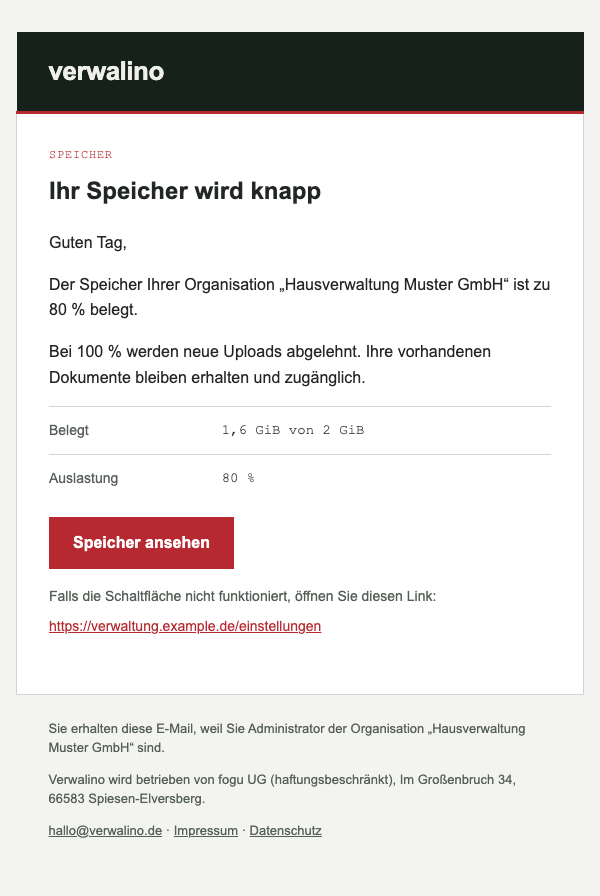
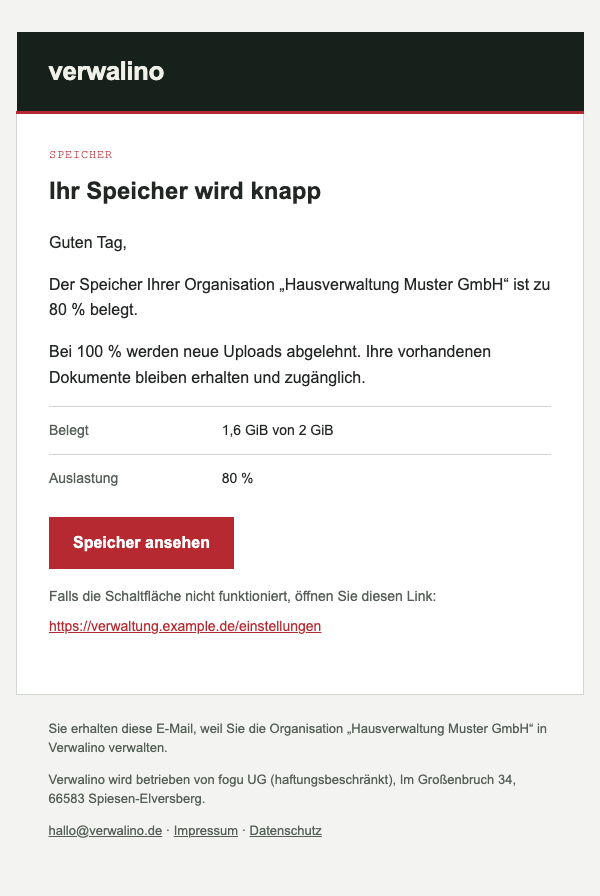
fix(mail): refuse encoded words in subjects and tighten contexts
A literal MIME encoded word in an organization name or operator title passed
the control-character check and was decoded by the recipient's client, so the
displayed subject could carry CR, LF or ESC. Percent and date fields accepted
out-of-range or integer input, and operator paragraphs stayed mutable.

Refuse "=?" in rendered subjects, bound percent to 0-100, make date fields
strict and retention a date only, store paragraphs as a tuple, and document
that apply_to fills a fresh message. Fact values use the body font, footer
reasons no longer assume the recipient's role title, and the operator alert
reason fits both deployment modes.

Tests cover the encoded-word subject, format and bidi controls, the bounds;
snapshots and preview PNGs regenerated.

Refs #125

diff --git a/backend/tests/mail_snapshots/operator_alert.html b/backend/tests/mail_snapshots/operator_alert.html
@@ -50,15 +50,15 @@
               <table role="presentation" cellpadding="0" cellspacing="0" border="0" width="100%" style="width:100%;table-layout:fixed;border-collapse:collapse;">
                 <tr style="vertical-align:top;">
                   <td width="32%" class="secondary separator" style="width:32%;padding:12px 12px 12px 0;border-top:1px solid #D2D6D0;font-size:14px;line-height:1.6;color:#555F57;">Prüfung</td>
-                  <td class="text separator" style="padding:12px 0;border-top:1px solid #D2D6D0;font-family:&#39;IBM Plex Mono&#39;, Consolas, &#39;Courier New&#39;, monospace;font-size:14px;line-height:1.6;font-variant-numeric:tabular-nums;color:#232724;word-break:break-word;">Anmeldung und Dokumentabruf</td>
+                  <td class="text separator" style="padding:12px 0;border-top:1px solid #D2D6D0;font-size:14px;line-height:1.6;font-variant-numeric:tabular-nums;color:#232724;word-break:break-word;">Anmeldung und Dokumentabruf</td>
                 </tr>
                 <tr style="vertical-align:top;">
                   <td width="32%" class="secondary separator" style="width:32%;padding:12px 12px 12px 0;border-top:1px solid #D2D6D0;font-size:14px;line-height:1.6;color:#555F57;">Umgebung</td>
-                  <td class="text separator" style="padding:12px 0;border-top:1px solid #D2D6D0;font-family:&#39;IBM Plex Mono&#39;, Consolas, &#39;Courier New&#39;, monospace;font-size:14px;line-height:1.6;font-variant-numeric:tabular-nums;color:#232724;word-break:break-word;">hosted-eu</td>
+                  <td class="text separator" style="padding:12px 0;border-top:1px solid #D2D6D0;font-size:14px;line-height:1.6;font-variant-numeric:tabular-nums;color:#232724;word-break:break-word;">hosted-eu</td>
                 </tr>
                 <tr style="vertical-align:top;">
                   <td width="32%" class="secondary separator" style="width:32%;padding:12px 12px 12px 0;border-top:1px solid #D2D6D0;font-size:14px;line-height:1.6;color:#555F57;">Zeitpunkt</td>
-                  <td class="text separator" style="padding:12px 0;border-top:1px solid #D2D6D0;font-family:&#39;IBM Plex Mono&#39;, Consolas, &#39;Courier New&#39;, monospace;font-size:14px;line-height:1.6;font-variant-numeric:tabular-nums;color:#232724;word-break:break-word;">31.10.2026, 14:05 Uhr</td>
+                  <td class="text separator" style="padding:12px 0;border-top:1px solid #D2D6D0;font-size:14px;line-height:1.6;font-variant-numeric:tabular-nums;color:#232724;word-break:break-word;">31.10.2026, 14:05 Uhr</td>
                 </tr>
               </table>
               <p style="margin:0;padding:0 0 16px;font-size:14px;line-height:1.6;word-break:break-all;">
@@ -71,7 +71,7 @@
           </tr>
           <tr style="vertical-align:top;">
             <td class="secondary inner-padding" style="padding:24px 32px;font-size:13px;line-height:1.5;color:#555F57;overflow-wrap:anywhere;">
-              <p style="margin:0;padding:0 0 12px;">Sie erhalten diese E-Mail, weil Sie automatische Alarme des gehosteten Verwalino-Betriebs empfangen.</p>
+              <p style="margin:0;padding:0 0 12px;">Sie erhalten diese E-Mail, weil diese Adresse automatische Alarme des Verwalino-Betriebs erhält.</p>
               <p style="margin:0;padding:0 0 12px;">Verwalino wird betrieben von fogu UG (haftungsbeschränkt), Im Großenbruch 34, 66583 Spiesen-Elversberg.</p>
               <p style="margin:0;padding:0;">
                 <a href="mailto:hallo@verwalino.de" class="secondary" style="color:#555F57;text-decoration:underline;">hallo@verwalino.de</a> ·

diff --git a/backend/tests/mail_snapshots/export_ready.html b/backend/tests/mail_snapshots/export_ready.html
@@ -46,15 +46,15 @@
               <h1 class="text" style="margin:0;padding:0 0 24px;font-size:24px;line-height:1.25;font-weight:700;color:#232724;">Ihr Datenexport steht bereit</h1>
               <p class="text" style="margin:0;padding:0 0 16px;font-size:16px;line-height:1.6;color:#232724;">Guten Tag,</p>
               <p class="text" style="margin:0;padding:0 0 16px;font-size:16px;line-height:1.6;color:#232724;">Das Exportarchiv für Ihre Organisation „Hausverwaltung Muster GmbH“ ist erstellt.</p>
-              <p class="text" style="margin:0;padding:0 0 16px;font-size:16px;line-height:1.6;color:#232724;">Der Link öffnet die Exportseite in Verwalino. Melden Sie sich dort als Administrator an, um das Archiv herunterzuladen. Der Link allein gewährt keinen Zugriff.</p>
+              <p class="text" style="margin:0;padding:0 0 16px;font-size:16px;line-height:1.6;color:#232724;">Der Link öffnet die Exportseite in Verwalino. Melden Sie sich dort mit Ihrem Zugang an, um das Archiv herunterzuladen. Der Link allein gewährt keinen Zugriff.</p>
               <table role="presentation" cellpadding="0" cellspacing="0" border="0" width="100%" style="width:100%;table-layout:fixed;border-collapse:collapse;">
                 <tr style="vertical-align:top;">
                   <td width="32%" class="secondary separator" style="width:32%;padding:12px 12px 12px 0;border-top:1px solid #D2D6D0;font-size:14px;line-height:1.6;color:#555F57;">Archivgröße</td>
-                  <td class="text separator" style="padding:12px 0;border-top:1px solid #D2D6D0;font-family:&#39;IBM Plex Mono&#39;, Consolas, &#39;Courier New&#39;, monospace;font-size:14px;line-height:1.6;font-variant-numeric:tabular-nums;color:#232724;word-break:break-word;">25 MiB</td>
+                  <td class="text separator" style="padding:12px 0;border-top:1px solid #D2D6D0;font-size:14px;line-height:1.6;font-variant-numeric:tabular-nums;color:#232724;word-break:break-word;">25 MiB</td>
                 </tr>
                 <tr style="vertical-align:top;">
                   <td width="32%" class="secondary separator" style="width:32%;padding:12px 12px 12px 0;border-top:1px solid #D2D6D0;font-size:14px;line-height:1.6;color:#555F57;">Verfügbar bis</td>
-                  <td class="text separator" style="padding:12px 0;border-top:1px solid #D2D6D0;font-family:&#39;IBM Plex Mono&#39;, Consolas, &#39;Courier New&#39;, monospace;font-size:14px;line-height:1.6;font-variant-numeric:tabular-nums;color:#232724;word-break:break-word;">01.11.2026, 14:05 Uhr</td>
+                  <td class="text separator" style="padding:12px 0;border-top:1px solid #D2D6D0;font-size:14px;line-height:1.6;font-variant-numeric:tabular-nums;color:#232724;word-break:break-word;">01.11.2026, 14:05 Uhr</td>
                 </tr>
               </table>
               <table role="presentation" cellpadding="0" cellspacing="0" border="0" class="button-table" style="border-collapse:collapse;">

diff --git a/backend/tests/mail_snapshots/quota_storage_warning.html b/backend/tests/mail_snapshots/quota_storage_warning.html
@@ -50,11 +50,11 @@
               <table role="presentation" cellpadding="0" cellspacing="0" border="0" width="100%" style="width:100%;table-layout:fixed;border-collapse:collapse;">
                 <tr style="vertical-align:top;">
                   <td width="32%" class="secondary separator" style="width:32%;padding:12px 12px 12px 0;border-top:1px solid #D2D6D0;font-size:14px;line-height:1.6;color:#555F57;">Belegt</td>
-                  <td class="text separator" style="padding:12px 0;border-top:1px solid #D2D6D0;font-family:&#39;IBM Plex Mono&#39;, Consolas, &#39;Courier New&#39;, monospace;font-size:14px;line-height:1.6;font-variant-numeric:tabular-nums;color:#232724;word-break:break-word;">1,6 GiB von 2 GiB</td>
+                  <td class="text separator" style="padding:12px 0;border-top:1px solid #D2D6D0;font-size:14px;line-height:1.6;font-variant-numeric:tabular-nums;color:#232724;word-break:break-word;">1,6 GiB von 2 GiB</td>
                 </tr>
                 <tr style="vertical-align:top;">
                   <td width="32%" class="secondary separator" style="width:32%;padding:12px 12px 12px 0;border-top:1px solid #D2D6D0;font-size:14px;line-height:1.6;color:#555F57;">Auslastung</td>
-                  <td class="text separator" style="padding:12px 0;border-top:1px solid #D2D6D0;font-family:&#39;IBM Plex Mono&#39;, Consolas, &#39;Courier New&#39;, monospace;font-size:14px;line-height:1.6;font-variant-numeric:tabular-nums;color:#232724;word-break:break-word;">80 %</td>
+                  <td class="text separator" style="padding:12px 0;border-top:1px solid #D2D6D0;font-size:14px;line-height:1.6;font-variant-numeric:tabular-nums;color:#232724;word-break:break-word;">80 %</td>
                 </tr>
               </table>
               <table role="presentation" cellpadding="0" cellspacing="0" border="0" class="button-table" style="border-collapse:collapse;">
@@ -74,7 +74,7 @@
           </tr>
           <tr style="vertical-align:top;">
             <td class="secondary inner-padding" style="padding:24px 32px;font-size:13px;line-height:1.5;color:#555F57;overflow-wrap:anywhere;">
-              <p style="margin:0;padding:0 0 12px;">Sie erhalten diese E-Mail, weil Sie Administrator der Organisation „Hausverwaltung Muster GmbH“ sind.</p>
+              <p style="margin:0;padding:0 0 12px;">Sie erhalten diese E-Mail, weil Sie die Organisation „Hausverwaltung Muster GmbH“ in Verwalino verwalten.</p>
               <p style="margin:0;padding:0 0 12px;">Verwalino wird betrieben von fogu UG (haftungsbeschränkt), Im Großenbruch 34, 66583 Spiesen-Elversberg.</p>
               <p style="margin:0;padding:0;">
                 <a href="mailto:hallo@verwalino.de" class="secondary" style="color:#555F57;text-decoration:underline;">hallo@verwalino.de</a> ·

diff --git a/backend/tests/mail_snapshots/organization_deletion_scheduled.html b/backend/tests/mail_snapshots/organization_deletion_scheduled.html
@@ -52,7 +52,7 @@
               <table role="presentation" cellpadding="0" cellspacing="0" border="0" width="100%" style="width:100%;table-layout:fixed;border-collapse:collapse;">
                 <tr style="vertical-align:top;">
                   <td width="32%" class="secondary separator" style="width:32%;padding:12px 12px 12px 0;border-top:1px solid #D2D6D0;font-size:14px;line-height:1.6;color:#555F57;">Löschung am</td>
-                  <td class="text separator" style="padding:12px 0;border-top:1px solid #D2D6D0;font-family:&#39;IBM Plex Mono&#39;, Consolas, &#39;Courier New&#39;, monospace;font-size:14px;line-height:1.6;font-variant-numeric:tabular-nums;color:#232724;word-break:break-word;">14.11.2026</td>
+                  <td class="text separator" style="padding:12px 0;border-top:1px solid #D2D6D0;font-size:14px;line-height:1.6;font-variant-numeric:tabular-nums;color:#232724;word-break:break-word;">14.11.2026</td>
                 </tr>
               </table>
               <table role="presentation" cellpadding="0" cellspacing="0" border="0" class="button-table" style="border-collapse:collapse;">
@@ -72,7 +72,7 @@
           </tr>
           <tr style="vertical-align:top;">
             <td class="secondary inner-padding" style="padding:24px 32px;font-size:13px;line-height:1.5;color:#555F57;overflow-wrap:anywhere;">
-              <p style="margin:0;padding:0 0 12px;">Sie erhalten diese E-Mail, weil Sie Administrator der zur Löschung vorgemerkten Organisation „Hausverwaltung Muster GmbH“ sind.</p>
+              <p style="margin:0;padding:0 0 12px;">Sie erhalten diese E-Mail, weil Sie die zur Löschung vorgemerkte Organisation „Hausverwaltung Muster GmbH“ in Verwalino verwalten.</p>
               <p style="margin:0;padding:0 0 12px;">Verwalino wird betrieben von fogu UG (haftungsbeschränkt), Im Großenbruch 34, 66583 Spiesen-Elversberg.</p>
               <p style="margin:0;padding:0;">
                 <a href="mailto:hallo@verwalino.de" class="secondary" style="color:#555F57;text-decoration:underline;">hallo@verwalino.de</a> ·

diff --git a/backend/tests/mail_snapshots/ai_budget_exhausted.html b/backend/tests/mail_snapshots/ai_budget_exhausted.html
@@ -51,7 +51,7 @@
               <table role="presentation" cellpadding="0" cellspacing="0" border="0" width="100%" style="width:100%;table-layout:fixed;border-collapse:collapse;">
                 <tr style="vertical-align:top;">
                   <td width="32%" class="secondary separator" style="width:32%;padding:12px 12px 12px 0;border-top:1px solid #D2D6D0;font-size:14px;line-height:1.6;color:#555F57;">Wieder verfügbar ab</td>
-                  <td class="text separator" style="padding:12px 0;border-top:1px solid #D2D6D0;font-family:&#39;IBM Plex Mono&#39;, Consolas, &#39;Courier New&#39;, monospace;font-size:14px;line-height:1.6;font-variant-numeric:tabular-nums;color:#232724;word-break:break-word;">01.11.2026</td>
+                  <td class="text separator" style="padding:12px 0;border-top:1px solid #D2D6D0;font-size:14px;line-height:1.6;font-variant-numeric:tabular-nums;color:#232724;word-break:break-word;">01.11.2026</td>
                 </tr>
               </table>
               <table role="presentation" cellpadding="0" cellspacing="0" border="0" class="button-table" style="border-collapse:collapse;">
@@ -71,7 +71,7 @@
           </tr>
           <tr style="vertical-align:top;">
             <td class="secondary inner-padding" style="padding:24px 32px;font-size:13px;line-height:1.5;color:#555F57;overflow-wrap:anywhere;">
-              <p style="margin:0;padding:0 0 12px;">Sie erhalten diese E-Mail, weil Sie Administrator der Organisation „Hausverwaltung Muster GmbH“ sind.</p>
+              <p style="margin:0;padding:0 0 12px;">Sie erhalten diese E-Mail, weil Sie die Organisation „Hausverwaltung Muster GmbH“ in Verwalino verwalten.</p>
               <p style="margin:0;padding:0 0 12px;">Verwalino wird betrieben von fogu UG (haftungsbeschränkt), Im Großenbruch 34, 66583 Spiesen-Elversberg.</p>
               <p style="margin:0;padding:0;">
                 <a href="mailto:hallo@verwalino.de" class="secondary" style="color:#555F57;text-decoration:underline;">hallo@verwalino.de</a> ·

diff --git a/backend/tests/mail_snapshots/quota_storage_full.html b/backend/tests/mail_snapshots/quota_storage_full.html
@@ -51,7 +51,7 @@
               <table role="presentation" cellpadding="0" cellspacing="0" border="0" width="100%" style="width:100%;table-layout:fixed;border-collapse:collapse;">
                 <tr style="vertical-align:top;">
                   <td width="32%" class="secondary separator" style="width:32%;padding:12px 12px 12px 0;border-top:1px solid #D2D6D0;font-size:14px;line-height:1.6;color:#555F57;">Belegt</td>
-                  <td class="text separator" style="padding:12px 0;border-top:1px solid #D2D6D0;font-family:&#39;IBM Plex Mono&#39;, Consolas, &#39;Courier New&#39;, monospace;font-size:14px;line-height:1.6;font-variant-numeric:tabular-nums;color:#232724;word-break:break-word;">2 GiB von 2 GiB</td>
+                  <td class="text separator" style="padding:12px 0;border-top:1px solid #D2D6D0;font-size:14px;line-height:1.6;font-variant-numeric:tabular-nums;color:#232724;word-break:break-word;">2 GiB von 2 GiB</td>
                 </tr>
               </table>
               <table role="presentation" cellpadding="0" cellspacing="0" border="0" class="button-table" style="border-collapse:collapse;">
@@ -71,7 +71,7 @@
           </tr>
           <tr style="vertical-align:top;">
             <td class="secondary inner-padding" style="padding:24px 32px;font-size:13px;line-height:1.5;color:#555F57;overflow-wrap:anywhere;">
-              <p style="margin:0;padding:0 0 12px;">Sie erhalten diese E-Mail, weil Sie Administrator der Organisation „Hausverwaltung Muster GmbH“ sind.</p>
+              <p style="margin:0;padding:0 0 12px;">Sie erhalten diese E-Mail, weil Sie die Organisation „Hausverwaltung Muster GmbH“ in Verwalino verwalten.</p>
               <p style="margin:0;padding:0 0 12px;">Verwalino wird betrieben von fogu UG (haftungsbeschränkt), Im Großenbruch 34, 66583 Spiesen-Elversberg.</p>
               <p style="margin:0;padding:0;">
                 <a href="mailto:hallo@verwalino.de" class="secondary" style="color:#555F57;text-decoration:underline;">hallo@verwalino.de</a> ·

diff --git a/backend/tests/mail_snapshots/email_change_notice.html b/backend/tests/mail_snapshots/email_change_notice.html
@@ -50,11 +50,11 @@
               <table role="presentation" cellpadding="0" cellspacing="0" border="0" width="100%" style="width:100%;table-layout:fixed;border-collapse:collapse;">
                 <tr style="vertical-align:top;">
                   <td width="32%" class="secondary separator" style="width:32%;padding:12px 12px 12px 0;border-top:1px solid #D2D6D0;font-size:14px;line-height:1.6;color:#555F57;">Neue Adresse</td>
-                  <td class="text separator" style="padding:12px 0;border-top:1px solid #D2D6D0;font-family:&#39;IBM Plex Mono&#39;, Consolas, &#39;Courier New&#39;, monospace;font-size:14px;line-height:1.6;font-variant-numeric:tabular-nums;color:#232724;word-break:break-word;">m•••@example.de</td>
+                  <td class="text separator" style="padding:12px 0;border-top:1px solid #D2D6D0;font-size:14px;line-height:1.6;font-variant-numeric:tabular-nums;color:#232724;word-break:break-word;">m•••@example.de</td>
                 </tr>
                 <tr style="vertical-align:top;">
                   <td width="32%" class="secondary separator" style="width:32%;padding:12px 12px 12px 0;border-top:1px solid #D2D6D0;font-size:14px;line-height:1.6;color:#555F57;">Geändert am</td>
-                  <td class="text separator" style="padding:12px 0;border-top:1px solid #D2D6D0;font-family:&#39;IBM Plex Mono&#39;, Consolas, &#39;Courier New&#39;, monospace;font-size:14px;line-height:1.6;font-variant-numeric:tabular-nums;color:#232724;word-break:break-word;">31.10.2026, 14:05 Uhr</td>
+                  <td class="text separator" style="padding:12px 0;border-top:1px solid #D2D6D0;font-size:14px;line-height:1.6;font-variant-numeric:tabular-nums;color:#232724;word-break:break-word;">31.10.2026, 14:05 Uhr</td>
                 </tr>
               </table>
               <table role="presentation" cellpadding="0" cellspacing="0" border="0" class="button-table" style="border-collapse:collapse;">

diff --git a/backend/tests/mail_snapshots/organization_deleted.html b/backend/tests/mail_snapshots/organization_deleted.html
@@ -52,14 +52,14 @@
               <table role="presentation" cellpadding="0" cellspacing="0" border="0" width="100%" style="width:100%;table-layout:fixed;border-collapse:collapse;">
                 <tr style="vertical-align:top;">
                   <td width="32%" class="secondary separator" style="width:32%;padding:12px 12px 12px 0;border-top:1px solid #D2D6D0;font-size:14px;line-height:1.6;color:#555F57;">Aufbewahrung bis</td>
-                  <td class="text separator" style="padding:12px 0;border-top:1px solid #D2D6D0;font-family:&#39;IBM Plex Mono&#39;, Consolas, &#39;Courier New&#39;, monospace;font-size:14px;line-height:1.6;font-variant-numeric:tabular-nums;color:#232724;word-break:break-word;">31.12.2036</td>
+                  <td class="text separator" style="padding:12px 0;border-top:1px solid #D2D6D0;font-size:14px;line-height:1.6;font-variant-numeric:tabular-nums;color:#232724;word-break:break-word;">31.12.2036</td>
                 </tr>
               </table>
             </td>
           </tr>
           <tr style="vertical-align:top;">
             <td class="secondary inner-padding" style="padding:24px 32px;font-size:13px;line-height:1.5;color:#555F57;overflow-wrap:anywhere;">
-              <p style="margin:0;padding:0 0 12px;">Sie erhalten diese E-Mail, weil Sie Administrator der gelöschten Organisation „Hausverwaltung Muster GmbH“ waren.</p>
+              <p style="margin:0;padding:0 0 12px;">Sie erhalten diese E-Mail, weil Sie die gelöschte Organisation „Hausverwaltung Muster GmbH“ in Verwalino verwaltet haben.</p>
               <p style="margin:0;padding:0 0 12px;">Verwalino wird betrieben von fogu UG (haftungsbeschränkt), Im Großenbruch 34, 66583 Spiesen-Elversberg.</p>
               <p style="margin:0;padding:0;">
                 <a href="mailto:hallo@verwalino.de" class="secondary" style="color:#555F57;text-decoration:underline;">hallo@verwalino.de</a> ·

diff --git a/backend/tests/mail_snapshots/password_changed.html b/backend/tests/mail_snapshots/password_changed.html
@@ -51,7 +51,7 @@
               <table role="presentation" cellpadding="0" cellspacing="0" border="0" width="100%" style="width:100%;table-layout:fixed;border-collapse:collapse;">
                 <tr style="vertical-align:top;">
                   <td width="32%" class="secondary separator" style="width:32%;padding:12px 12px 12px 0;border-top:1px solid #D2D6D0;font-size:14px;line-height:1.6;color:#555F57;">Geändert am</td>
-                  <td class="text separator" style="padding:12px 0;border-top:1px solid #D2D6D0;font-family:&#39;IBM Plex Mono&#39;, Consolas, &#39;Courier New&#39;, monospace;font-size:14px;line-height:1.6;font-variant-numeric:tabular-nums;color:#232724;word-break:break-word;">31.10.2026, 14:05 Uhr</td>
+                  <td class="text separator" style="padding:12px 0;border-top:1px solid #D2D6D0;font-size:14px;line-height:1.6;font-variant-numeric:tabular-nums;color:#232724;word-break:break-word;">31.10.2026, 14:05 Uhr</td>
                 </tr>
               </table>
               <table role="presentation" cellpadding="0" cellspacing="0" border="0" class="button-table" style="border-collapse:collapse;">

diff --git a/backend/app/mail/templates/de/layout.html b/backend/app/mail/templates/de/layout.html
@@ -60,7 +60,7 @@
 {% for label, value in copy.facts %}
                 <tr style="vertical-align:top;">
                   <td width="32%" class="secondary separator" style="width:32%;padding:12px 12px 12px 0;border-top:1px solid {{ brand.LIGHT.border }};font-size:14px;line-height:1.6;color:{{ brand.LIGHT.secondary }};">{{ label }}</td>
-                  <td class="text separator" style="padding:12px 0;border-top:1px solid {{ brand.LIGHT.border }};font-family:{{ brand.MONO_FONT }};font-size:14px;line-height:1.6;font-variant-numeric:tabular-nums;color:{{ brand.LIGHT.text }};word-break:break-word;">{{ value }}</td>
+                  <td class="text separator" style="padding:12px 0;border-top:1px solid {{ brand.LIGHT.border }};font-size:14px;line-height:1.6;font-variant-numeric:tabular-nums;color:{{ brand.LIGHT.text }};word-break:break-word;">{{ value }}</td>
                 </tr>
 {% endfor %}
               </table>

diff --git a/backend/tests/test_mail_templates.py b/backend/tests/test_mail_templates.py
@@ -71,14 +71,14 @@ def test_html_escapes_names_but_plain_text_preserves_them():
 
 
 @pytest.mark.parametrize("kind", CONTEXT_TYPES)
-@pytest.mark.parametrize("control", ["\r", "\n", "\t", "\x00", "\x1f", "\x7f", "\x85", "\u2028"])
+@pytest.mark.parametrize("control", ["\r", "\n", "\t", "\x00", "\x1f", "\x7f", "\x85", "\u2028", "\u2029", "\u202e", "\u200b"])
 def test_all_string_fields_refuse_controls_even_at_edges(kind, control):
     context = SAMPLES[kind]
     for name, value in context.model_dump().items():
         if isinstance(value, str):
             with pytest.raises(ValidationError):
                 type(context)(**{**context.model_dump(), name: control + value})
-        elif isinstance(value, list):
+        elif isinstance(value, (list, tuple)):
             with pytest.raises(ValidationError):
                 type(context)(**{**context.model_dump(), name: [control + value[0]]})
 
@@ -156,8 +156,18 @@ def test_dates_sizes_masking_validity_and_optional_copy():
     changed = SAMPLES["password_changed"]
     assert "Alle bisherigen Sitzungen wurden beendet." in render_mail(changed).text
     assert "Alle bisherigen Sitzungen" not in render_mail(type(changed)(**{**changed.model_dump(), "sessions_revoked": False})).text
-    deleted = SAMPLES["organization_deleted"]
-    assert "2036" in render_mail(type(deleted)(**{**deleted.model_dump(), "retention_until": 2036})).text
+    assert "31.12.2036" in render_mail(SAMPLES["organization_deleted"]).text
+    with pytest.raises(ValidationError):
+        type(SAMPLES["organization_deleted"])(**{**SAMPLES["organization_deleted"].model_dump(), "retention_until": 0})
+    with pytest.raises(ValidationError):
+        type(SAMPLES["quota_storage_warning"])(**{**SAMPLES["quota_storage_warning"].model_dump(), "percent": 101})
+
+
+def test_encoded_words_cannot_reach_the_subject():
+    invitation = SAMPLES["user_invitation"]
+    smuggled = "Muster =?utf-8?b?DQpCY2M6IHZpY3RpbUBleGFtcGxlLmRlDQo=?="
+    with pytest.raises(ValueError, match="encoded words"):
+        render_mail(type(invitation)(**{**invitation.model_dump(), "organization_name": smuggled}))
 
 
 def test_operator_text_is_escaped_and_optional_action_is_rendered():

diff --git a/backend/app/mail/contexts.py b/backend/app/mail/contexts.py
@@ -39,6 +39,7 @@ Paragraph = Annotated[str, StringConstraints(strict=True, min_length=1, max_leng
 MailLink = Annotated[str, StringConstraints(strict=True, min_length=1, max_length=2048), BeforeValidator(_clean), AfterValidator(_link)]
 PositiveInt = Annotated[int, Field(strict=True, gt=0)]
 Bytes = Annotated[int, Field(strict=True, ge=0)]
+Day = Annotated[date, Field(strict=True)]
 
 
 class MailContext(BaseModel):
@@ -109,7 +110,7 @@ class QuotaStorageWarning(MailContext):
     organization_name: Name
     used_bytes: Bytes
     limit_bytes: PositiveInt
-    percent: Annotated[int, Field(strict=True, ge=0)]
+    percent: Annotated[int, Field(strict=True, ge=0, le=100)]
     settings_link: MailLink
 
 
@@ -124,7 +125,7 @@ class QuotaStorageFull(MailContext):
 class AiBudgetExhausted(MailContext):
     kind = "ai_budget_exhausted"
     organization_name: Name
-    resets_on: date
+    resets_on: Day
     settings_link: MailLink
 
 
@@ -139,15 +140,15 @@ class ExportReady(MailContext):
 class OrganizationDeletionScheduled(MailContext):
     kind = "organization_deletion_scheduled"
     organization_name: Name
-    effective_on: date
+    effective_on: Day
     export_link: MailLink
-    cancel_until: date | None = None
+    cancel_until: Day | None = None
 
 
 class OrganizationDeleted(MailContext):
     kind = "organization_deleted"
     organization_name: Name
-    retention_until: date | Annotated[int, Field(strict=True, ge=2000, le=9999)]
+    retention_until: Day
 
 
 class OperatorAlert(MailContext):
@@ -163,7 +164,7 @@ class OperatorAlert(MailContext):
 class OperatorNotice(MailContext):
     kind = "operator_notice"
     title: Name
-    paragraphs: Annotated[list[Paragraph], Field(min_length=1, max_length=10)]
+    paragraphs: Annotated[tuple[Paragraph, ...], Field(min_length=1, max_length=10)]
     action_label: Name | None = None
     action_link: MailLink | None = None
 
